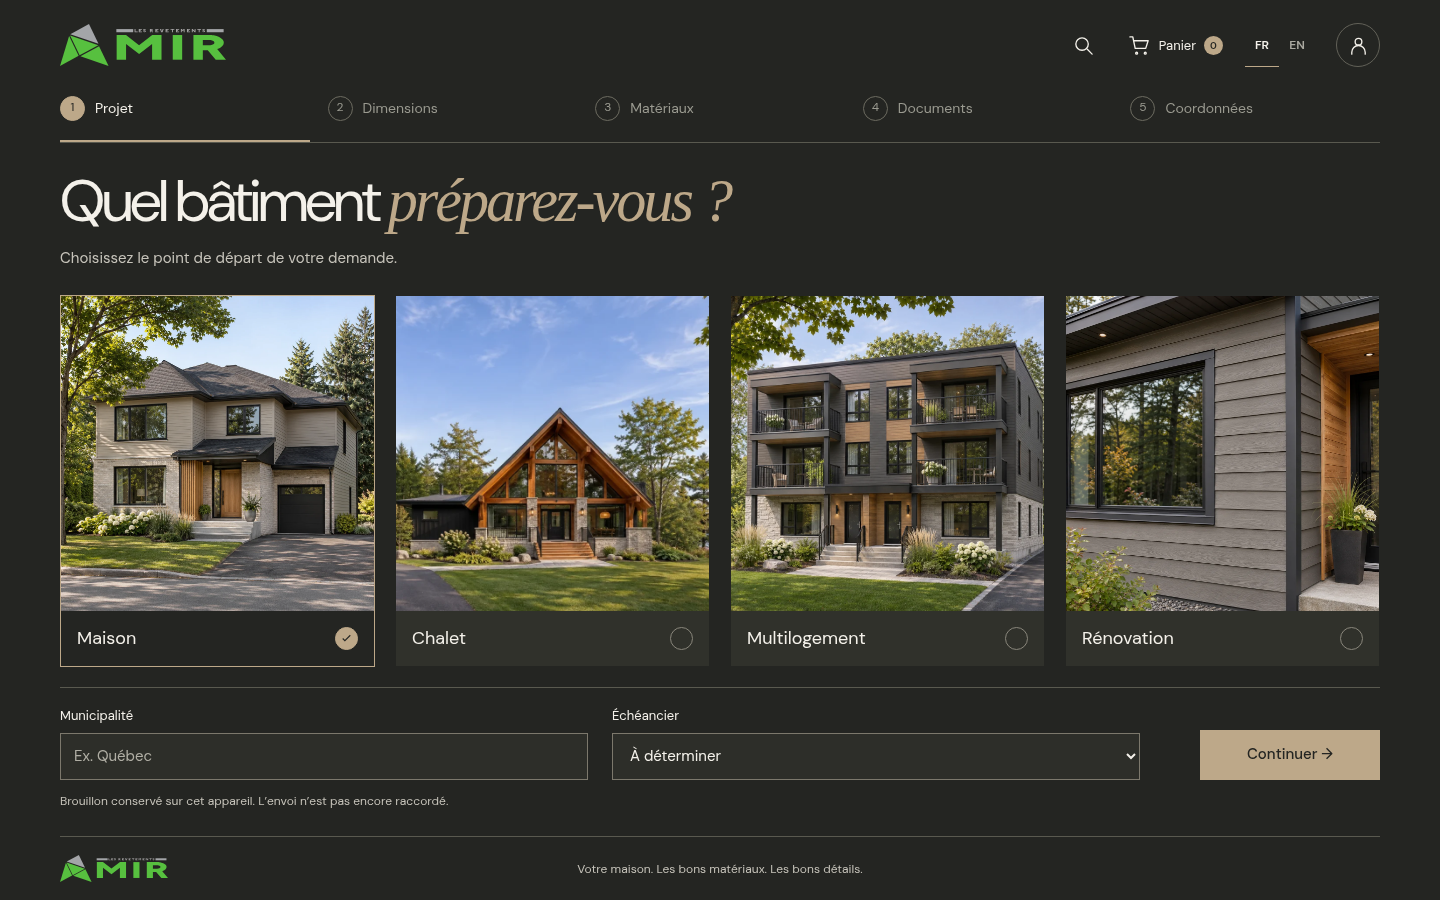
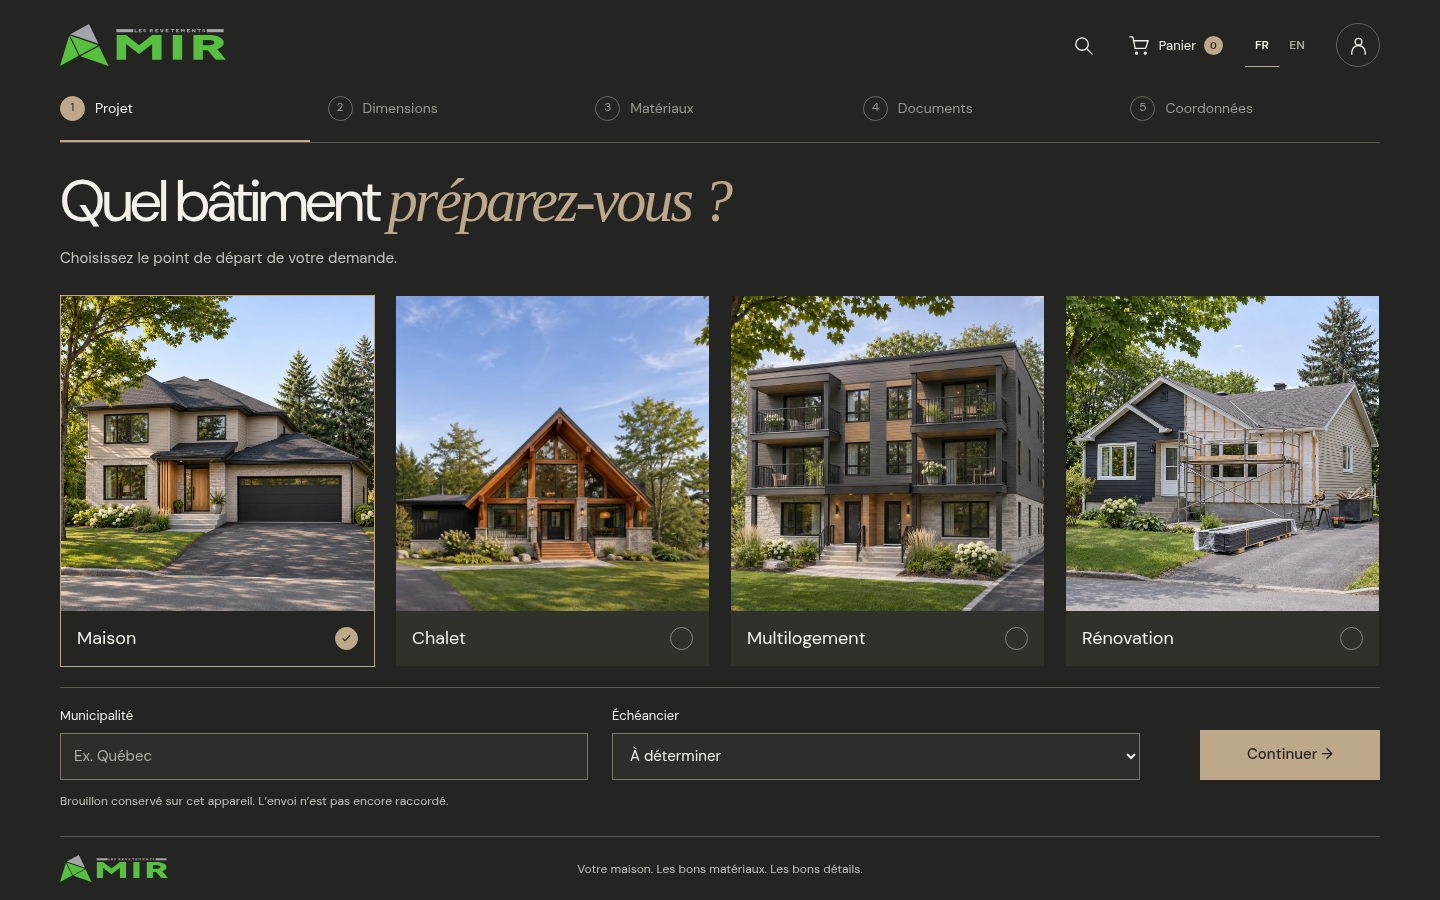
design: enlarge house garage and show exterior renovation work

Changed region(s): [[0.7188, 0.3111, 0.9688, 0.6844], [0.0312, 0.3111, 0.2812, 0.6844]]

diff --git a/docs/verification/estimation-04-photos-20261118/README.md b/docs/verification/estimation-04-photos-20261118/README.md
@@ -4,9 +4,9 @@ Demande de Frederick du 18 novembre 2026 : remplacer la maison déjà utilisée 
 
 ## Résultat
 
-- Maison : nouvelle illustration originale d’une maison québécoise claire à deux étages, entrée bois et maçonnerie, différente de la maison de Particuliers.
-- Rénovation : nouvelle illustration de clin gris chaud, fenêtre noire, finitions de coin anthracite et entrée bois.
-- Deux WebP carrés de 1254 × 1254. Conversion de format uniquement, sans retouche ni recadrage du fichier généré. Provenance, prompts et SHA-256 dans `assets.json`.
+- Maison : nouvelle illustration originale d’une maison québécoise claire à deux étages, entrée bois, maçonnerie et garage double élargi à sa demande, différente de la maison de Particuliers.
+- Rénovation : nouvelle illustration d’une maison en cours de remplacement du revêtement extérieur : partie neuve anthracite, membrane et fourrures apparentes, ancien parement, échafaudage et matériaux sur l’entrée.
+- Deux WebP carrés de 1254 × 1254. Maison retouchée avec image_gen pour agrandir le garage. Les deux résultats finaux sont seulement encodés en WebP, sans recadrage ni redimensionnement local. Provenance, prompts et SHA-256 dans `assets.json`.
 - Aucun HTML, CSS, JavaScript, service ou formulaire modifié. Chalet, Multilogement, Accueil, Particuliers et espaces employés restent intacts. Le workflow existant inclut la nouvelle branche, sans retrait ni modification de contrôle.
 
 ## Vérifications exécutées avant le commit
@@ -17,7 +17,7 @@ Chromium 155.0.8059.79 : 1280×800, 1440×900, 1920×1080, 834×1194 et 390×844
 - 34 comparaisons : zéro pixel différent hors des rectangles des deux images volontairement remplacées. Les 20 captures Accueil/Particuliers sont strictement identiques, sans masque.
 - Les 43 autres ressources chargées sont identiques octet pour octet. Seuls les deux fichiers image diffèrent parmi les 45 ressources contrôlées.
 - Aucune erreur JavaScript, console ou HTTP, ni transport réel.
-- Inspection réelle des captures PC et téléphone : maison identifiable en entier, détail Rénovation lisible. Le `object-fit` existant recadre légèrement les carrés à 1280 px et sur tablette; les détails utiles restent visibles. Aucun changement de géométrie n’a été introduit.
+- Inspection réelle des captures PC et téléphone : maison et garage double identifiables, chantier de Rénovation lisible. Le `object-fit` existant recadre légèrement les carrés à 1280 px et sur tablette; les détails utiles restent visibles. Aucun changement de géométrie n’a été introduit.
 
 Les tests et captures du build TEST exact ainsi que le reçu READY sont livrés séparément après le commit, pour conserver son SHA exact. Les résultats locaux ne sont pas présentés comme un test Chromium sur Vercel.
 
